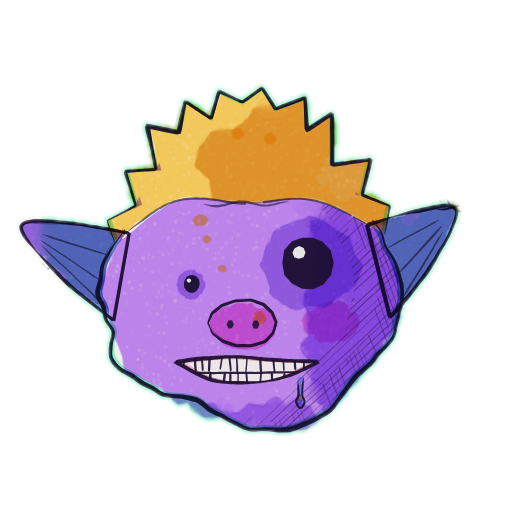
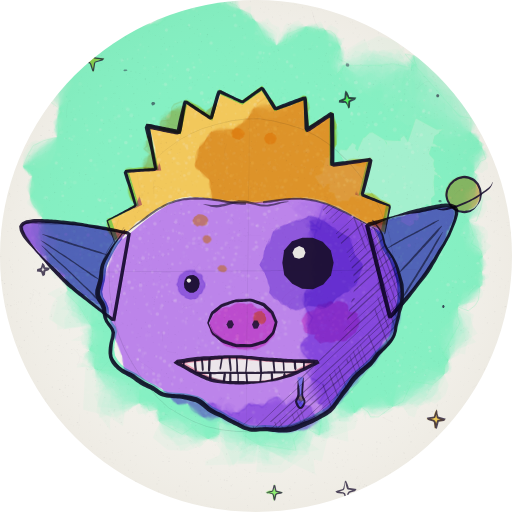
README: the Glorpie on its own painted paper, in a circle

diff --git a/README.md b/README.md
@@ -1,5 +1,5 @@
 <p align="center">
-  <a href="https://glorpies.vercel.app"><img src=".github/assets/glorpie.png" width="192" height="192" alt="sunrakerrisfriednoodlz: a purple Glorpie with a yellow crown, pointy ears and too many teeth"></a>
+  <a href="https://glorpies.vercel.app"><img src=".github/assets/glorpie.png" width="192" height="192" alt="sunrakerrisfriednoodlz: a purple Glorpie with a yellow crown, pointy ears and too many teeth, painted on a mint wash in a circle"></a>
 </p>
 
 <h1 align="center">glorpies</h1>
@@ -40,7 +40,7 @@ import { Glorpie } from 'glorpies/react';
 By default, small avatars use the ink look; at 72px and above they use watercolour. To paint the Glorpie at the top of this page:
 
 ```tsx
-<Glorpie name="sunrakerrisfriednoodlz" look="watercolour" size={192} background={false} />
+<Glorpie name="sunrakerrisfriednoodlz" look="watercolour" size={192} />
 ```
 
 ## ⵅ frameworks
@@ -176,7 +176,7 @@ PNG, WebP, JPEG, SVG and seamless GIF loops, cached for a year by default. `crea
 Write a face straight to a file:
 
 ```bash
-npx -p glorpies -p @napi-rs/canvas glorpies sunrakerrisfriednoodlz --look watercolour --size 512 -o glorpie.png
+npx -p glorpies -p @napi-rs/canvas glorpies sunrakerrisfriednoodlz --look watercolour --size 512 --shape circle -o glorpie.png
 ```
 
 Or a whole team, after installing `glorpies` and `@napi-rs/canvas` in your project:

diff --git a/packages/glorpies/README.md b/packages/glorpies/README.md
@@ -1,5 +1,5 @@
 <p align="center">
-  <a href="https://glorpies.vercel.app"><img src="https://raw.githubusercontent.com/sunrakerr/glorpies/main/.github/assets/glorpie.png" width="192" height="192" alt="sunrakerrisfriednoodlz: a purple Glorpie with a yellow crown, pointy ears and too many teeth"></a>
+  <a href="https://glorpies.vercel.app"><img src="https://raw.githubusercontent.com/sunrakerr/glorpies/main/.github/assets/glorpie.png" width="192" height="192" alt="sunrakerrisfriednoodlz: a purple Glorpie with a yellow crown, pointy ears and too many teeth, painted on a mint wash in a circle"></a>
 </p>
 
 <h1 align="center">glorpies</h1>
@@ -41,7 +41,7 @@ import { Glorpie } from 'glorpies/react';
 By default, small avatars use the ink look; at 72px and above they use watercolour. To paint the Glorpie at the top of this page:
 
 ```tsx
-<Glorpie name="sunrakerrisfriednoodlz" look="watercolour" size={192} background={false} />
+<Glorpie name="sunrakerrisfriednoodlz" look="watercolour" size={192} />
 ```
 
 ## Anywhere: one tag
